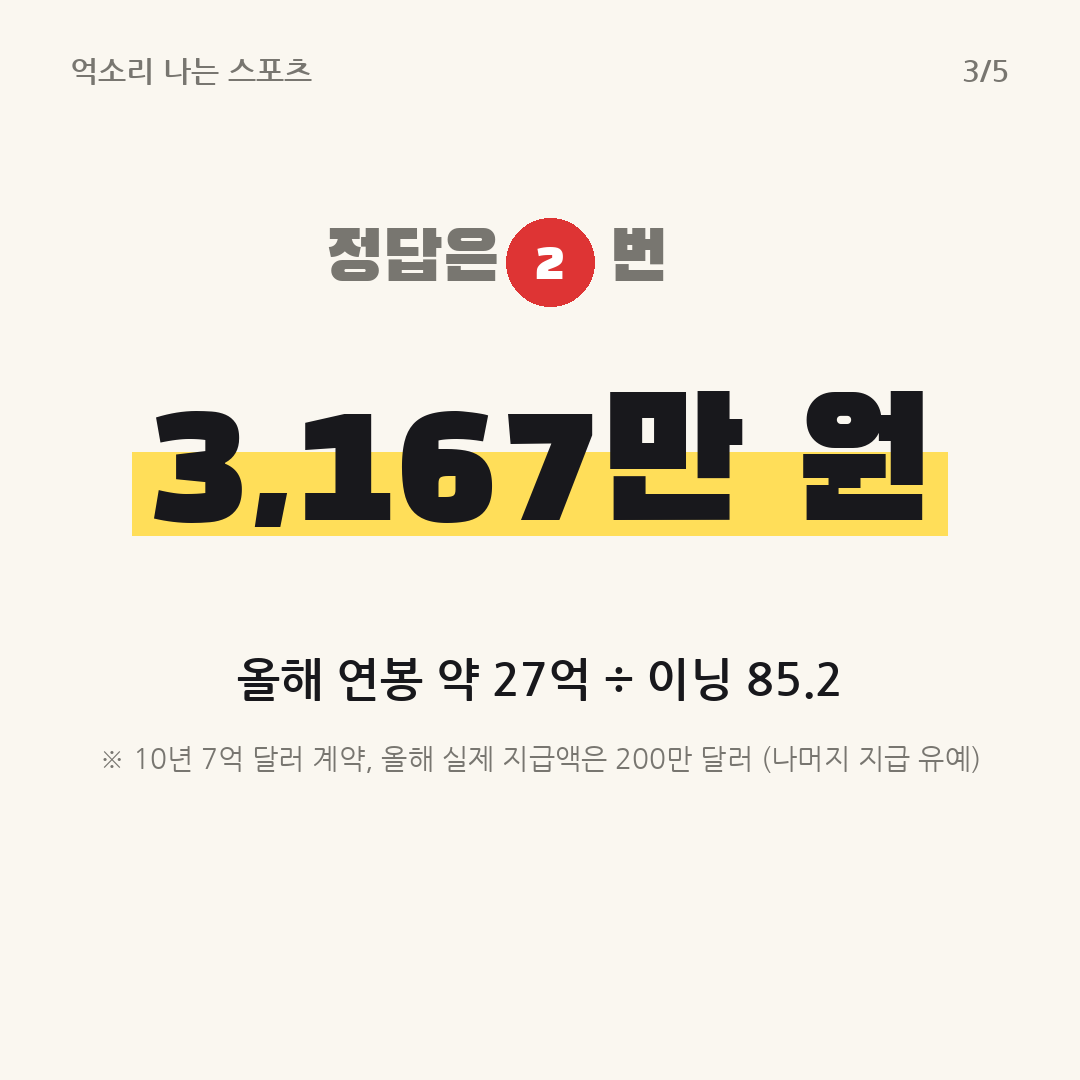
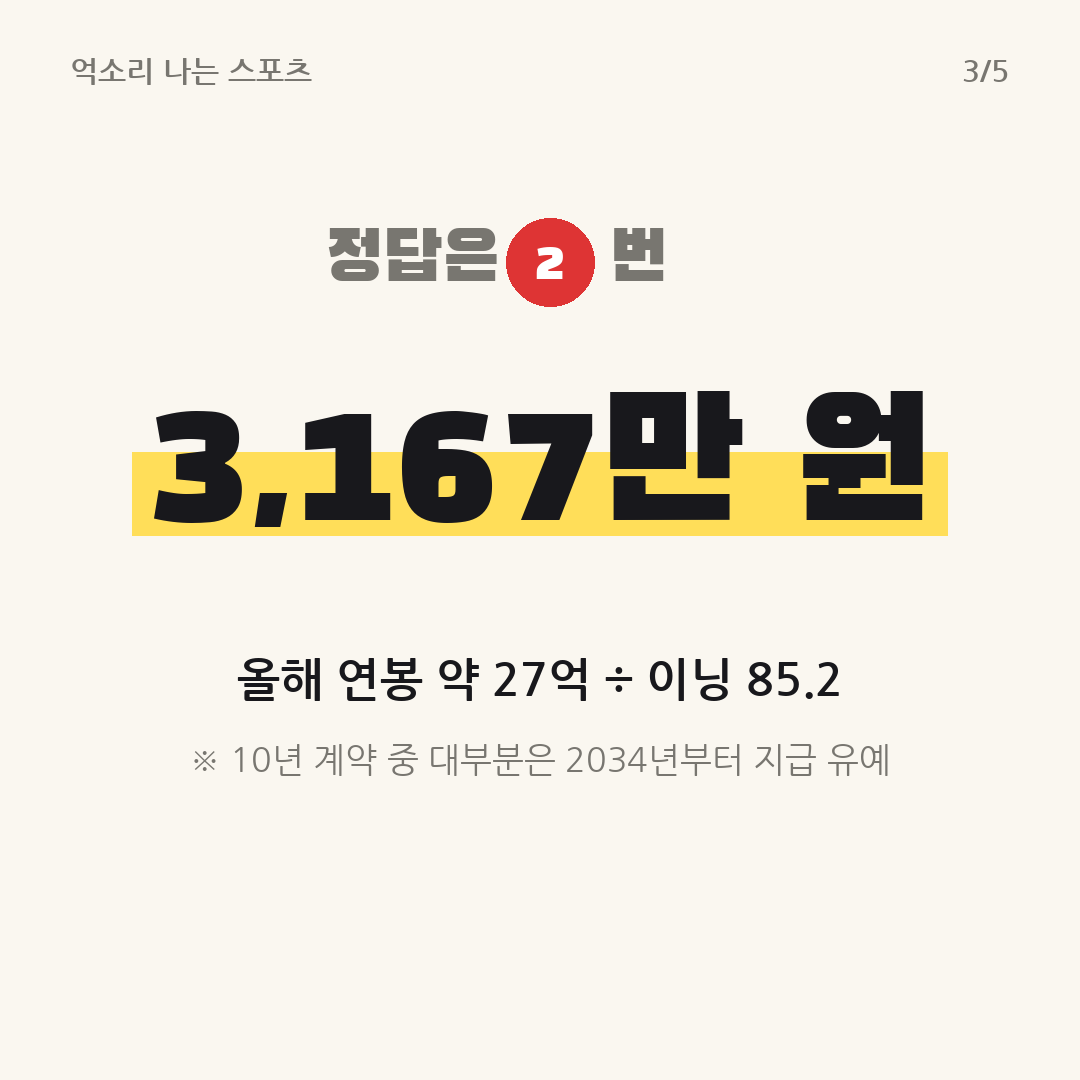
통화는 모두 원화로 (대표 결정)
- 숫자표: 달러 연봉·계약 총액을 원화로만 보여줌 (코드 환산), 연봉 근거 문구에 금액 금지
- 검사: 제목·본문에 '달러'가 있으면 걸림 ('기준:' 문단의 환율 설명은 허용)
- 카드 표 아래 '환율 1,356.7원'
- 오타니·이정후 글 원화로 고침 (9,496억·9,225억·1,533억 등), 정답 카드 재생성
- DECISIONS·스킬·테스트 반영

Claude-Session: https://claude.ai/code/session_01HNJTaMMcXgMjQhv2iW7WGc

Changed region(s): [[0.1528, 0.6722, 0.825, 0.7333], [0.8556, 0.6722, 0.9167, 0.7333]]

diff --git a/tests/test_content.py b/tests/test_content.py
@@ -106,6 +106,14 @@ class ContentTest(unittest.TestCase):
         assert "선수 이름" in problems and "과장어" in problems and "되풀이" in problems and "20자" in problems
         assert "태그" in problems
 
+    def test_won_only(self):
+        sheet = "1안타당: 2억 32만 원"
+        base = {"recommended": 1, "titles": [{"text": "1안타에 2억", "type": "숫자형"}] * 5}
+        imgs = "\n[thumb.png][card_quiz.png][card_answer.png][card_wage.png][card_table.png]"
+        ok = check_post({**base, "body": "1안타에 2억." + imgs + "\n기준: 1달러 1,356.7원"}, sheet)
+        bad = check_post({**base, "body": "연봉은 2,200만 달러예요." + imgs}, sheet)
+        assert not any("달러" in x for x in ok) and any("달러" in x for x in bad)
+
 
 if __name__ == "__main__":
     unittest.main()

diff --git a/content/cards.py b/content/cards.py
@@ -167,7 +167,7 @@ def table_card(d: dict, n: dict, units: list[dict], head: str, page: int, total:
     if card:
         stats = f"{d['season']} 시즌 · " + " · ".join(f"{c['label']} {c['value']}" for c in card[:5])
         center_text(dr, (W / 2, top + rh * len(rows) + 60), stats, fit(dr, stats, "b", 32, W * 0.86), SOFT)
-    note = "성적·연봉 보도 기준" + (f" · 1달러 {d['fx_krw_per_usd']:,}원" if d.get("fx_krw_per_usd") else "")
+    note = "성적·연봉 보도 기준" + (f" · 환율 {d['fx_krw_per_usd']:,}원" if d.get("fx_krw_per_usd") else "")
     center_text(dr, (W / 2, top + rh * len(rows) + 110), note, font("r", 28), SOFT)
     return im
 

diff --git a/posts/2026-09-29-오타니-영수증/post.md b/posts/2026-09-29-오타니-영수증/post.md
@@ -1,13 +1,13 @@
 # 발행 패키지 · 오타니 쇼헤이 2026 연봉 영수증
 
 **상태:** ✅ 자동 검사 통과  
-**게이트:** 통과 — 정보 이득: 지급 유예로 올해 실제 연봉 200만 달러(약 27억 원)만 따로 떼어 1경기·1안타·1이닝·1홈런 단가와 최저임금 연봉 배수를 새로 계산한 표  
+**게이트:** 통과 — 정보 이득: 지급 유예로 올해 실제 연봉 약 27억 원만 따로 떼어 1경기·1안타·1이닝·1홈런 단가와 최저임금 연봉 배수를 새로 계산한 표  
 **자동 작성:** Claude 초안 → 코드 검사 (고쳐 쓰기 0회) · API 비용 약 $0.16  
 **Claude 검토 (9/29):** 이닝 표기(85.2 = 85⅔) 계산 오류 수정 3,185만 → 3,167만 원, 이름 넣은 다음 글 예고를 댓글 질문으로 교체 (류현진은 올해 연봉 보도가 없어 이번에 건너뜀)
 
 ## 제목 (추천 ★)
 
-1. ★ 7억 달러 계약인데 올해는 27억? — 반전형
+1. ★ 9,496억 계약인데 올해는 27억? — 반전형
 2. 홈런 한 방에 최저임금 3.5년 — 대비형
 3. 연봉 쪼개 보니 홈런이 1위 — 순위형
 4. 1이닝 던지면 얼마 받을까? — 질문형
@@ -32,13 +32,13 @@
 
 1경기에 1,952만 원.
 
-오타니가 올해 실제로 받는 연봉을 경기 수로 나눈 값이에요. 10년 7억 달러 계약이라는 말만 듣고 상상한 금액과는 좀 다르죠?
+오타니가 올해 실제로 받는 연봉을 경기 수로 나눈 값이에요. 10년 약 9,496억 원짜리 계약이라는 말만 듣고 상상한 금액과는 좀 다르죠?
 
 [이미지 1_첫문단아래: thumb.png]
 
-올해 오타니 연봉은 200만 달러예요. 9월 29일 환율(1달러 1,356.7원)로 바꾸면 약 27억 원이죠.
+올해 오타니가 실제로 받는 연봉은 약 27억 원이에요. 9월 29일 환율로 바꾼 금액이죠.
 
-나머지 6억8000만 달러는 2034년부터 받기로 미뤘어요. 지급 유예라고 부르는 방식이에요. 계약 총액은 그대로인데, 올해 통장에 들어오는 돈만 작아진 셈이죠.
+나머지 약 9,225억 원은 2034년부터 받기로 미뤘어요. 지급 유예라고 부르는 방식이에요. 계약 총액은 그대로인데, 올해 통장에 들어오는 돈만 작아진 셈이죠.
 
 그럼 이 27억 원을 쪼개면 얼마일까요? 1이닝 값부터 맞혀 보세요.
 
@@ -67,11 +67,11 @@
 
 시즌 막판에는 무릎과 이두근 부상으로 흐름이 꺾였어요. 30호 홈런 이후 한동안 홈런도 나오지 않았죠. 그래도 올해 받는 돈은 그대로예요.
 
-홈런 한 방 9,045만 원, 비싸 보이세요 싸 보이세요? 2034년부터 받을 6억8000만 달러는 그때 또 어떤 영수증이 될까요?
+홈런 한 방 9,045만 원, 비싸 보이세요 싸 보이세요? 2034년부터 받을 약 9,225억 원은 그때 또 어떤 영수증이 될까요?
 
 다음엔 누구 연봉을 쪼개 볼까요? 궁금한 선수를 댓글로 남겨 주세요.
 
-기준: 연봉·계약은 계약 내용 보도, 성적은 2026년 9월 28일 보도, 환율은 2026년 9월 29일 서울 외환시장, 최저임금은 2026년 고시(시급 10,320원, 월 209시간) 기준이에요.
+기준: 연봉·계약은 계약 내용 보도, 성적은 2026년 9월 28일 보도, 환율은 2026년 9월 29일 서울 외환시장(1달러 1,356.7원), 최저임금은 2026년 고시(시급 10,320원, 월 209시간) 기준이에요.
 
 
 

diff --git a/DECISIONS.md b/DECISIONS.md
@@ -61,6 +61,7 @@
 - **홈판은 제목이 가장 중요하다. 제목은 선수 이름으로 시작하고, 추천 제목은 썸네일과 같은 기록·금액을 이름 바로 뒤에 둔다. 20자 이하, 추천 제목은 "이름 + 기록 + 금액"만(예: "이정후 1안타에 2억"), 과장어 금지.** 처음엔 40자·반전 문구였으나 대표가 "짧을수록 직관적"이라 20자로 줄임(10자는 긴 이름에서 금액이 잘려 20자로). 썸네일은 선수 이름 → 기록 → 금액만(설명 문구 없음), 기록을 가리는 낚시형은 쓰지 않는다. 코드 검사로 강제. 대표 결정. (money-content-writer 2-1)
 - **제목 수정: 20자 안팎, 추천 제목은 이름 + 반전·궁금증 한 마디이고 썸네일 금액을 되풀이하지 않는다** (썸네일은 "얼마", 제목은 "왜?"). 경쟁 블로그가 검색용인지 홈판용인지 몰라 길이는 20자로. 직전 "추천 제목 = 이름 + 기록 + 금액" 결정을 대체. 이름은 검색·알림처럼 썸네일 없이 제목만 보이는 곳 때문에 유지. 대표 결정. (money-content-writer 2-1)
 - **제목에서 선수 이름도 뺀다. 20자를 끌어들이는 문구(반전·궁금증)에만 쓴다.** 이름·금액은 썸네일과 본문에 있고, 이름은 태그에 넣어 검색 유입을 일부 보완한다(제목에 이름이 없으면 검색 유입은 줄어듦 — 홈판 집중 방향에 따른 선택). 직전 "이름 유지"를 대체. 대표 결정. (money-content-writer 2-1)
+- **돈은 모두 원화로 쓴다.** 달러 연봉·계약 총액은 코드가 그날 환율로 원화 환산하고("약 9,496억 원"), 제목·본문·카드에 "달러"를 쓰지 않는다. 환율은 마지막 "기준:" 문단에만. 독자가 환율 계산 없이 바로 체감하게. 코드 검사로 강제. 대표 결정. (money-content-writer 2단계)
 ---
 
 ## 미결정 (결정되면 위로 옮긴다)

diff --git a/posts/2026-10-01-이정후-영수증/post.md b/posts/2026-10-01-이정후-영수증/post.md
@@ -34,7 +34,7 @@
 
 [이미지 1_첫문단아래: thumb.png]
 
-올해 이정후 연봉은 2,200만 달러예요. 9월 29일 환율(1달러 1,356.7원)로 바꾸면 약 298억 원이죠.
+올해 이정후 연봉은 약 298억 원이에요. 9월 29일 환율로 바꾼 금액이죠.
 
 이 돈을 올 시즌 성적으로 하나씩 쪼개 봤어요. 홈런 한 방은 얼마일지 먼저 맞혀 보세요.
 
@@ -65,7 +65,7 @@
 
 그럼 내년은 어떨까요?
 
-계약서를 보면 이정후는 2023년 12월에 샌프란시스코와 6년 1억 1,300만 달러에 사인했어요. 연봉이 가장 높은 해가 바로 올해와 내년이에요. 둘 다 2,200만 달러고요.
+계약서를 보면 이정후는 2023년 12월에 샌프란시스코와 6년 약 1,533억 원(지금 환율 기준)에 사인했어요. 연봉이 가장 높은 해가 바로 올해와 내년이에요. 둘 다 약 298억 원이고요.
 
 그리고 2027시즌이 끝나면 계약을 스스로 깨고 FA로 나갈 수 있는 권리가 있어요. 내년 성적이 곧 다음 계약 금액이 되는 셈이죠.
 
@@ -73,7 +73,7 @@
 
 다음 영수증은 류현진이에요. 한화 복귀 계약 170억을 이닝 수로 나누면 얼마일지, 궁금하지 않으세요?
 
-기준: 연봉·계약은 계약 세부 공개 보도, 성적은 2026년 9월 말 보도, 환율은 2026년 9월 29일 오후 3시 30분 서울 외환시장, 최저임금은 고용노동부 고시(시급 10,320원, 월 209시간) 기준이에요.
+기준: 연봉·계약은 계약 세부 공개 보도, 성적은 2026년 9월 말 보도, 환율은 2026년 9월 29일 오후 3시 30분 서울 외환시장(1달러 1,356.7원), 최저임금은 고용노동부 고시(시급 10,320원, 월 209시간) 기준이에요.
 
 
 ## 출처

diff --git a/posts/README.md b/posts/README.md
@@ -5,4 +5,4 @@
 | 날짜 | 추천 제목 | 상태 |
 | --- | --- | --- |
 | 2026-10-01 | [시즌 끝났는데 연봉은 다 받을까?](2026-10-01-이정후-영수증/post.md) | ✅ 발행 가능 |
-| 2026-09-29 | [7억 달러 계약인데 올해는 27억?](2026-09-29-오타니-영수증/post.md) | ✅ 발행 가능 |
+| 2026-09-29 | [9,496억 계약인데 올해는 27억?](2026-09-29-오타니-영수증/post.md) | ✅ 발행 가능 |
